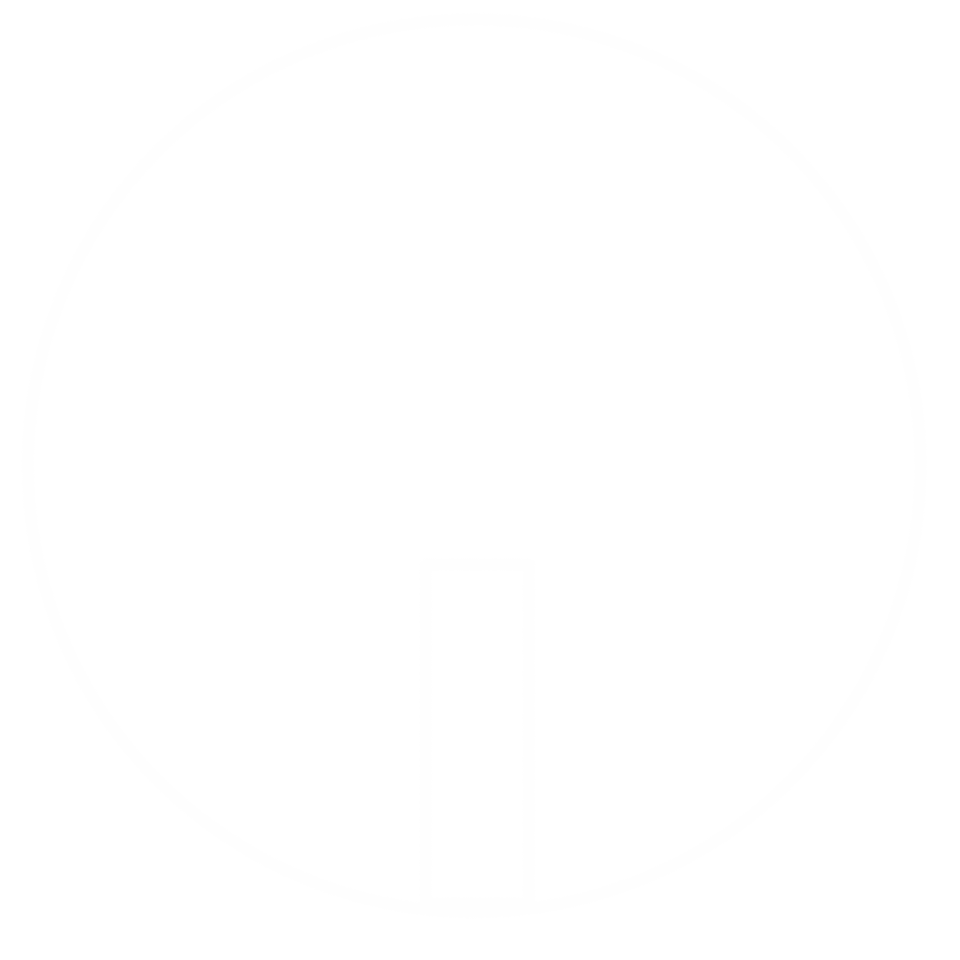
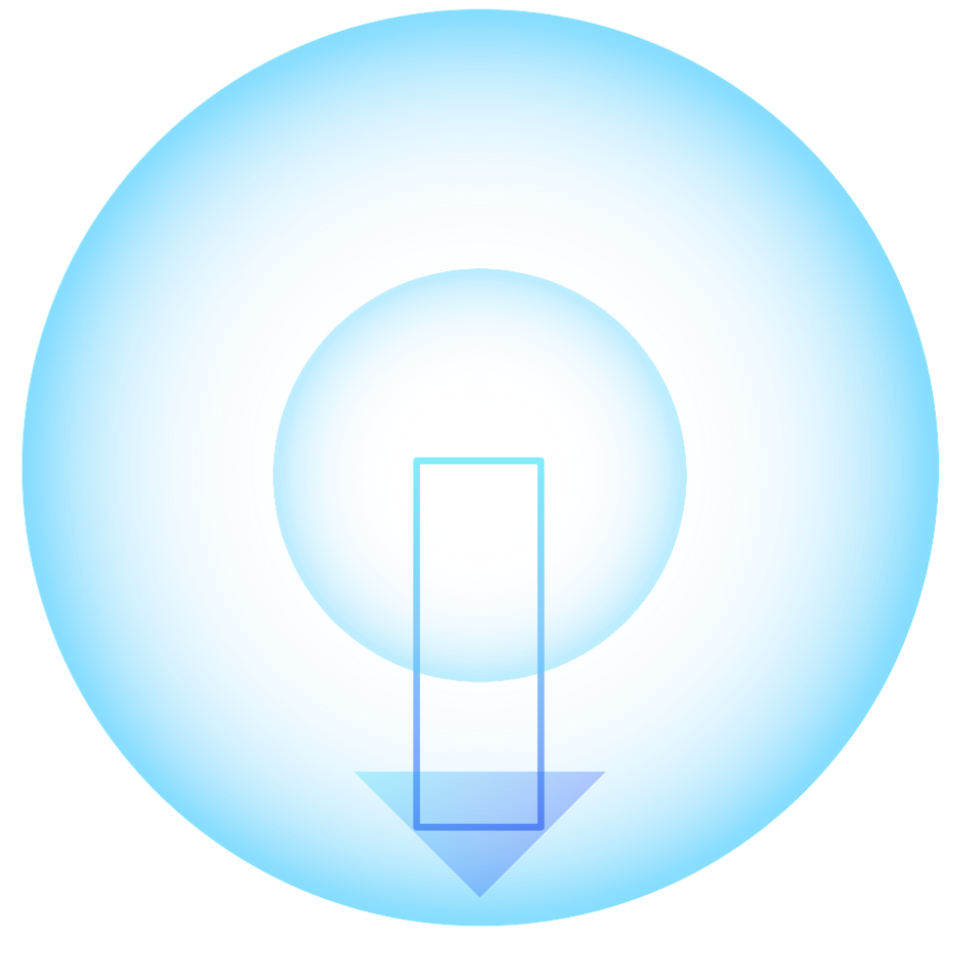
.

diff --git a/app/modes/farm.js b/app/modes/farm.js
@@ -366,8 +366,8 @@ var FARM = {
 
 					// if dynamic Skill
 					if (skillStat.type === "dynamic") {
-					window.skillFunc = SkillObj.func
-			
+						window.skillFunc = SkillObj.func
+
 
 						// show skillPad
 						$("#skillpad").css({
@@ -377,51 +377,55 @@ var FARM = {
 						})
 						// hide Utils Pad
 						$("#utils").css("display", "none")
-						
-						var arrow = new Three.Mesh(new Three.PlaneGeometry(20,20), new Three.MeshToonMaterial({
+
+						var arrow = new Three.Mesh(new Three.PlaneGeometry(40, 40), new Three.MeshToonMaterial({
 							transparent: true,
 							side: 2,
+							opacity: .25,
 							map: TextureLoader.load("assets/images/skillArrow.png")
 						}))
-						
-						arrow.rotation.x = -Math.PI/2
-						
+						arrow.position.y = .5
+						arrow.rotation.x = -Math.PI / 2
+
 						character.add(arrow)
-						
+
 						window.skillArrow = arrow
-									
 
 						// Dynamic Function
 						// parameter required, target vector
 
 						// Reload third Skill
-						/*tReloaded = 0
-						$("#Skill3 img").css({
-							opacity: .3
-						})
 
-						var r = 1;
-						var rel = setInterval(() => {
-							if (r > 100) {
-								tReloaded = 100
-								$("#Skill3 div").css({
-									top: "100%",
-									height: "0%",
-									opacity: 0
-								})
-								$("#Skill3 img").css({
-									opacity: 1
-								})
-								clearInterval(rel)
-							} else {
-								r++
-								$("#Skill3 div").css({
-									height: r + "%",
-									top: 100 - r + "%",
-									opacity: 1
-								})
-							}
-						}, skillStat.cooldown);*/
+						window.thirdSkillDone = function() {
+							tReloaded = 0
+							$("#Skill3 img").css({
+								opacity: .3
+							})
+
+							var r = 1;
+							var rel = setInterval(() => {
+								if (r > 100) {
+									tReloaded = 100
+									$("#Skill3 div").css({
+										top: "100%",
+										height: "0%",
+										opacity: 0
+									})
+									$("#Skill3 img").css({
+										opacity: 1
+									})
+									clearInterval(rel)
+								} else {
+									r++
+									$("#Skill3 div").css({
+										height: r + "%",
+										top: 100 - r + "%",
+										opacity: 1
+									})
+								}
+							}, skillStat.cooldown);
+						window.thirdSkillDone = null
+						}
 					}
 
 				}
@@ -593,7 +597,7 @@ var FARM = {
 		for (var o = 0; o < droppedBomb.length; o++) {
 			droppedBomb[o].done = true
 			droppedBomb[o].removed = true
-			droppedBomb[o].children.forEach( e =>{
+			droppedBomb[o].children.forEach(e => {
 				e.material.dispose()
 				e.geometry.dispose()
 			})
@@ -758,7 +762,7 @@ var FARM = {
 		for (var ccc = 0; ccc < droppedBomb.length; ccc++) {
 			droppedBomb[ccc].done = true
 			droppedBomb[ccc].removed = true
-			droppedBomb[ccc].children.forEach(e =>{
+			droppedBomb[ccc].children.forEach(e => {
 				e.material.dispose()
 				e.geometry.dispose()
 			})

diff --git a/controller/joy.js b/controller/joy.js
@@ -191,7 +191,20 @@ var JoyStick = (function(container, parameters)
 	{
 		
 		if (container === "skillpad"){
-			window.skillFunc(window.enemies)
+		
+			// parameter required, target vector
+			window.skillFunc(enemies)
+			window.skillArrow.material.dispose()
+			window.skillArrow.geometry.dispose()
+			SCENE.remove(window.skillArrow)
+			
+			character.remove(skillArrow)
+			window.skillArrow = null
+			$("#skillpad").css("display", "none")
+			$("#utils").css("display", "grid")
+			
+			// reload third skill
+			window.thirdSkillDone()
 		}
 		
 		//	pressed = 0;
@@ -412,13 +425,11 @@ var JoyStick = (function(container, parameters)
 			(hero.mesh.position.z - window.CAMERA.position.z))
 
 		var angle = angleYCameraDirection + RY
-
-		TweenMax.to(window.skillArrow.rotation, .5, {
-			z: RY
-		})
-
 		
-		//	window.skillArrow.rotation.z = 
+
+	TweenMax.to(window.skillArrow.rotation, .5, {
+			z: angle - character.rotation.y
+		})
 
 		return;
 	};

diff --git a/profiles/profile.js b/profiles/profile.js
@@ -34,7 +34,7 @@ let Profile = {
 	},
 		{
 			// Dynamic Skill, Skill 3
-			name: "laserBeam",
+			name: "instantKill",
 			damage: 0.8, // scaling down targets to 80%
 			img: "assets/images/coin.png",
 			type: "dynamic",

diff --git a/style.css b/style.css
@@ -53,7 +53,9 @@ html {
 	position: absolute;
 	display: none;
 	opacity: 1;
-	background-color: blue;
+	border-radius: 50%;
+	opacity: .7;
+	box-shadow: 0px 0px 30px 5px #40F0FFB0 inset;
 	z-index: 4;
 }
 #skillCancel {

diff --git a/main.js b/main.js
@@ -15,4 +15,3 @@ $("#GMCancel").on(' click ', () => {
 	$("#playbtn").css("display", "grid")
 
 });
-
